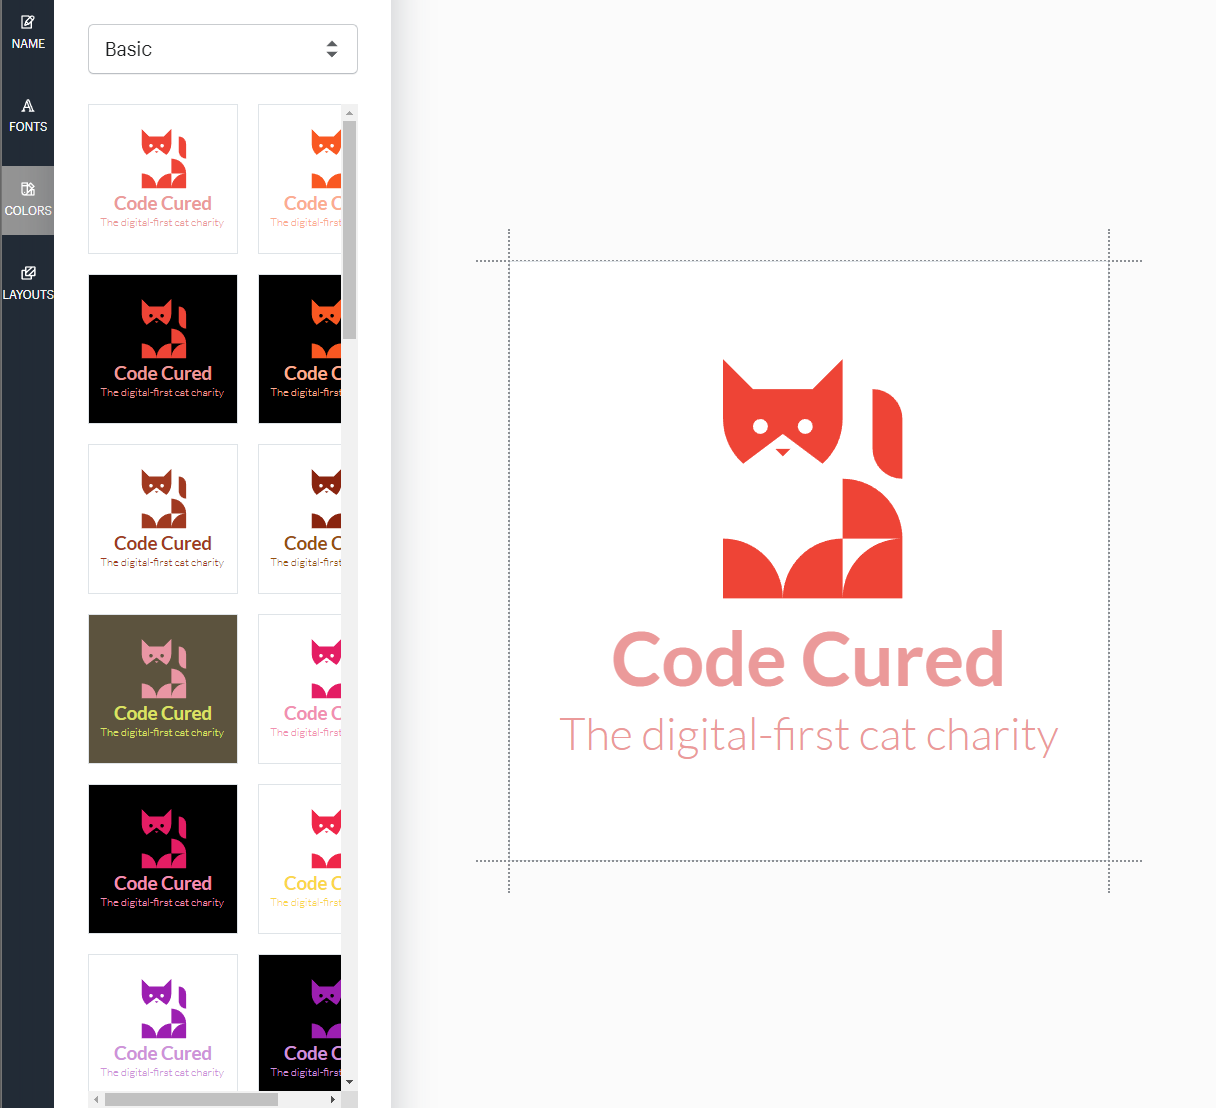
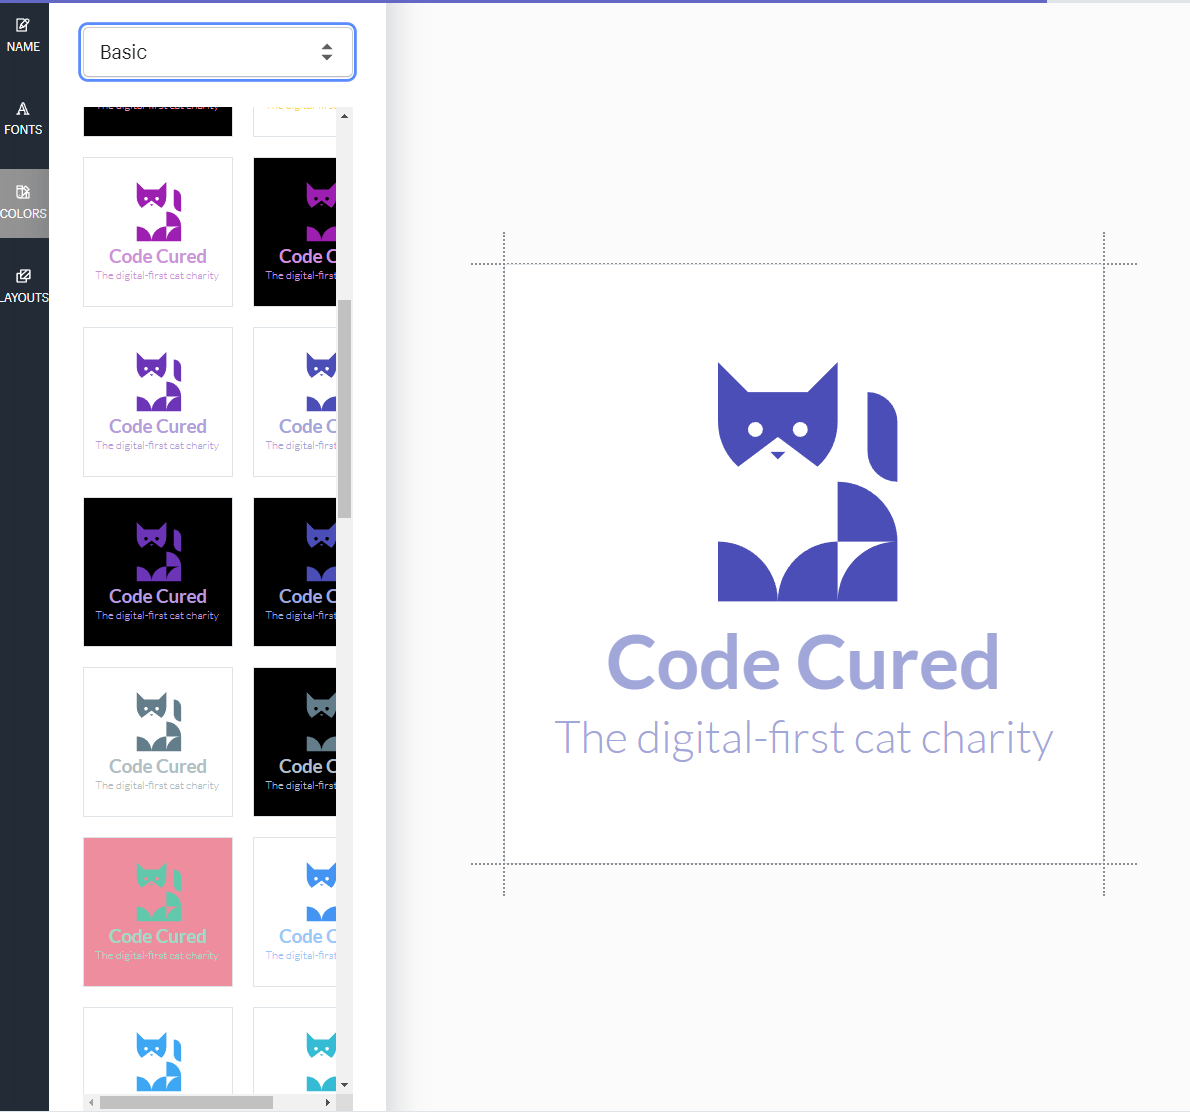
Some advantages & disadvantages, thumbnails

diff --git a/_drafts/2023-09-16-recommendation-shopify-logo-creator.md b/_drafts/2023-09-16-recommendation-shopify-logo-creator.md
@@ -8,7 +8,7 @@ tags:
     - Web
 ---
 
-For a project recently, I needed a "good enough" logo for basic branding. Whilst in the past I've made my own, I'm way too rusty these days, and don't even have Photoshop installed! As such, I looked for online services, finding most of them requiring payment or having bad licensing. Luckily, Hatchful by Shopify seems to do everything I needed, including full ownership of the output!
+For [my project "Code Cured"](http://codecured.org/) recently, I needed a logo for basic branding. Whilst in the past I've made my own, I'm way too rusty these days, and don't even have Photoshop installed! As such, I looked for online services, finding most of them requiring payment or having bad licensing. Luckily, Hatchful by Shopify seems to do everything I needed, including full ownership of the output!
 
 ## Overview
 
@@ -18,7 +18,7 @@ Obviously the logos aren't going to be *perfect*, but I found the created logos 
 
 ## My logo
 
-The project I wanted to create a logo for was the non-profit "Code Cured The Cat" I'm currently working on. 
+The project I wanted to create a logo for was the [non-profit "Code Cured The Cat"](http://codecured.org/) I'm currently working on. 
 
 As this combined a "cutesy" theme (cats) and a "tech" theme (coding), I suspected I'd have trouble finding a good premade logo.
 
@@ -34,32 +34,30 @@ As such, I had a few requirements:
 
 Additionally, it had to be completely free and have no licensing restrictions whatsoever. 
 
-### Generating process
-
 Actually creating a logo just requires answering a few basic questions, then browsing the generated logos before personalising one.
 
-#### Business space
+### Business space
 
 First up, what field does my business (well, charity) operate in? Whilst "Tech" was an option, I chose "Pets" since a cat-based design was my top priority.
 
-[![](/assets/images/2023/hatchful-business-space.png)](/assets/images/2023/hatchful-business-space.png)
+[![](/assets/images/2023/hatchful-business-space-thumbnail.png)](/assets/images/2023/hatchful-business-space.png)
 
-#### Visual style
+### Visual style
 
 Next, what visual style do I want for the logo? This was perhaps the hardest question for me, since I didn't actually know. Luckily multiple options can be selected here, so I went for:
 * "Creative" to get modern designs.
 * "Youthful" to get animal designs. 
 * "Innovative" to get tech designs.
 
-[![](/assets/images/2023/hatchful-visual-style.png)](/assets/images/2023/hatchful-visual-style.png)
+[![](/assets/images/2023/hatchful-visual-style-thumbnail.png)](/assets/images/2023/hatchful-visual-style.png)
 
-#### Name & slogan
+### Name & slogan
 
 Now that the number of possible designs has been narrowed down, it can optionally be personalised with business name and slogan. These can be changed easily later and don't seem to affect the designs, but I filled it in regardless.
 
-[![](/assets/images/2023/hatchful-name.png)](/assets/images/2023/hatchful-name.png)
+[![](/assets/images/2023/hatchful-name-thumbnail.png)](/assets/images/2023/hatchful-name.png)
 
-#### Logo usage
+### Logo usage
 
 Final question, the site asks where the logo will be used. I was concerned this was where a request for payment would suddenly appear, but nope! Insted, this is just to try and provide the most useful files for you. 
 
@@ -67,9 +65,9 @@ For example, I chose "Online store or website" and "Social media", and this mean
 
 This can also be added to later.
 
-[![](/assets/images/2023/hatchful-usage.png)](/assets/images/2023/hatchful-usage.png)
+[![](/assets/images/2023/hatchful-usage-thumbnail.png)](/assets/images/2023/hatchful-usage.png)
 
-#### Pick a logo
+### Pick a logo
 
 Finally, it's logo picking time!
 
@@ -77,13 +75,13 @@ Even without any customisation, the initial results look great. Admittedly only 
 
 These logos are obviously a combination of text style + colour scheme + an icon, but the output still looks really, really good.
 
-[![](/assets/images/2023/hatchful-choose.png)](/assets/images/2023/hatchful-choose.png)
+[![](/assets/images/2023/hatchful-choose-thumbnail.png)](/assets/images/2023/hatchful-choose.png)
 
 I found one that met all of my [Requirements](#requirements), a vector-style cat made up of geometric shapes. I wasn't a big fan of the colour scheme, so onto the next stage, editing the logo.
 
-[![](/assets/images/2023/hatchful-selection.png)](/assets/images/2023/hatchful-selection.png)
+[![](/assets/images/2023/hatchful-selection-thumbnail.png)](/assets/images/2023/hatchful-selection.png)
 
-#### Personalising logo
+### Personalising logo
 
 There are 4 parts to a logo that can be customised. First, the name and slogan can be changed, since some designs look better without a slogan.
 
@@ -91,12 +89,49 @@ Next, the fonts. There are around 50-60, but for now the default sans-serif font
 
 Perhaps most importantly, the colour scheme can be changed. These schemes are grouped by theme, and this actually offers a much better experience than just choosing specific colours. I knew I wanted a logo that worked on white & black backgrounds, so I requested "Basic" themes:
 
-[![](/assets/images/2023/hatchful-personalising.png)](/assets/images/2023/hatchful-personalising.png)
+[![](/assets/images/2023/hatchful-personalising-thumbnail.png)](/assets/images/2023/hatchful-personalising.png)
+
+### Downloading
+
+All done! 
+
+A .zip file with the generated logo and all associated files is sent to your email. Whilst this does require signing up, since this also provides the ability to edit all past logos, I don't mind.
+
+[![](/assets/images/2023/hatchful-download-thumbnail.png)](/assets/images/2023/hatchful-download.png)
+
+The .zip file contains everything the logo is likely to be used for. Whilst some of the crops aren't useful (e.g. `facebook_cover_photo_1`), others genuinely save a bit of time (e.g. `linkedin_banner_image_2`).
+
+[![](/assets/images/2023/hatchful-folder-thumbnail.png)](/assets/images/2023/hatchful-folder.png)
+
+Whilst these are a good starting point, I did end up having to edit `logo.png` a bit to create one with the correct dimensions for GitHub etc.
 
 ## Advantages
 
+### Really free
+
+Before actually using my generated logo, I was very paranoid that there'd be some sort of licensng issue. However, these snippets from the Hatchful website seem pretty clear:
+
+> The logo you design with Shopify’s logo creator is 100% free and yours to own. *([source](https://www.shopify.com/tools/logo-maker#is-the-hatchful-logo-maker-free))*
+
+If this was a random website, I would be suspicious about how they can afford even the basic hosting costs. However given the fact it's on the industry giant Shopify's site, and includes lots of references to Shopify, it's clear how it can be free: To get new Shopify customers. This is confirmed through one of the FAQs:
+
+> **Did you know Hatchful is a free logo maker created by Shopify?**
+>
+> Shopify is a platform that allows you to build an online or offline store, with the mission of making commerce better for everyone. That’s why Shopify has created Hatchful, the free online logo maker tool, for you to have a free logo with your own branding identity. ([source](https://www.shopify.com/tools/logo-maker#hatchful-is-a-free-logo-maker-created-by-shopify))
+
 ## Disadvantages
 
-## Conclusion
+### Lack of fine tuning
 
-[![](/assets/images/2023/example_thumbnail.png)](/assets/images/2023/example.png)
+Whilst the ability to customise colour schemes is good, it's a real shame they can't be overridden by entering hex codes. Whilst I'm happy with the blue cat, and am comfortable changing the colour later, if I wanted a specific brand colour I'd be out of luck. This seems an odd omission, and I can only assume it's due to being targeted to non-technical users.
+
+### Lack of uniqueness
+
+The reality of any free logo creator is you might run into other companies with very similar logos. As I mentioned [in my post about free asset packs in games](https://blog.jakelee.co.uk/should-i-use-a-free-cheap-resource-pack-in-my-game/):
+> Of course, whilst seeing the assets you’re using elsewhere can be a nice experience, it isn’t always. In the past I’ve been accused of theft / stealing assets when they come from a pack. Users may see assets from their favourite game reused, and assume another developer has stolen it, without considering alternatives. Whilst users often correct their negative review once the situation is explained, they don’t always!
+
+I can definitely see a scenario where two companies innocently use Hatchful to create a free logo, then one is accused of "ripping off" the other!
+
+One way to avoid this is to use the generated assets as a *starting point*. For example I could tweak the shapes used for the cat somewhat, use a line of different coloured cats, or other simple changes. This won't obscure the logo's origins, but will at least mean it is unique.
+
+## Conclusion
